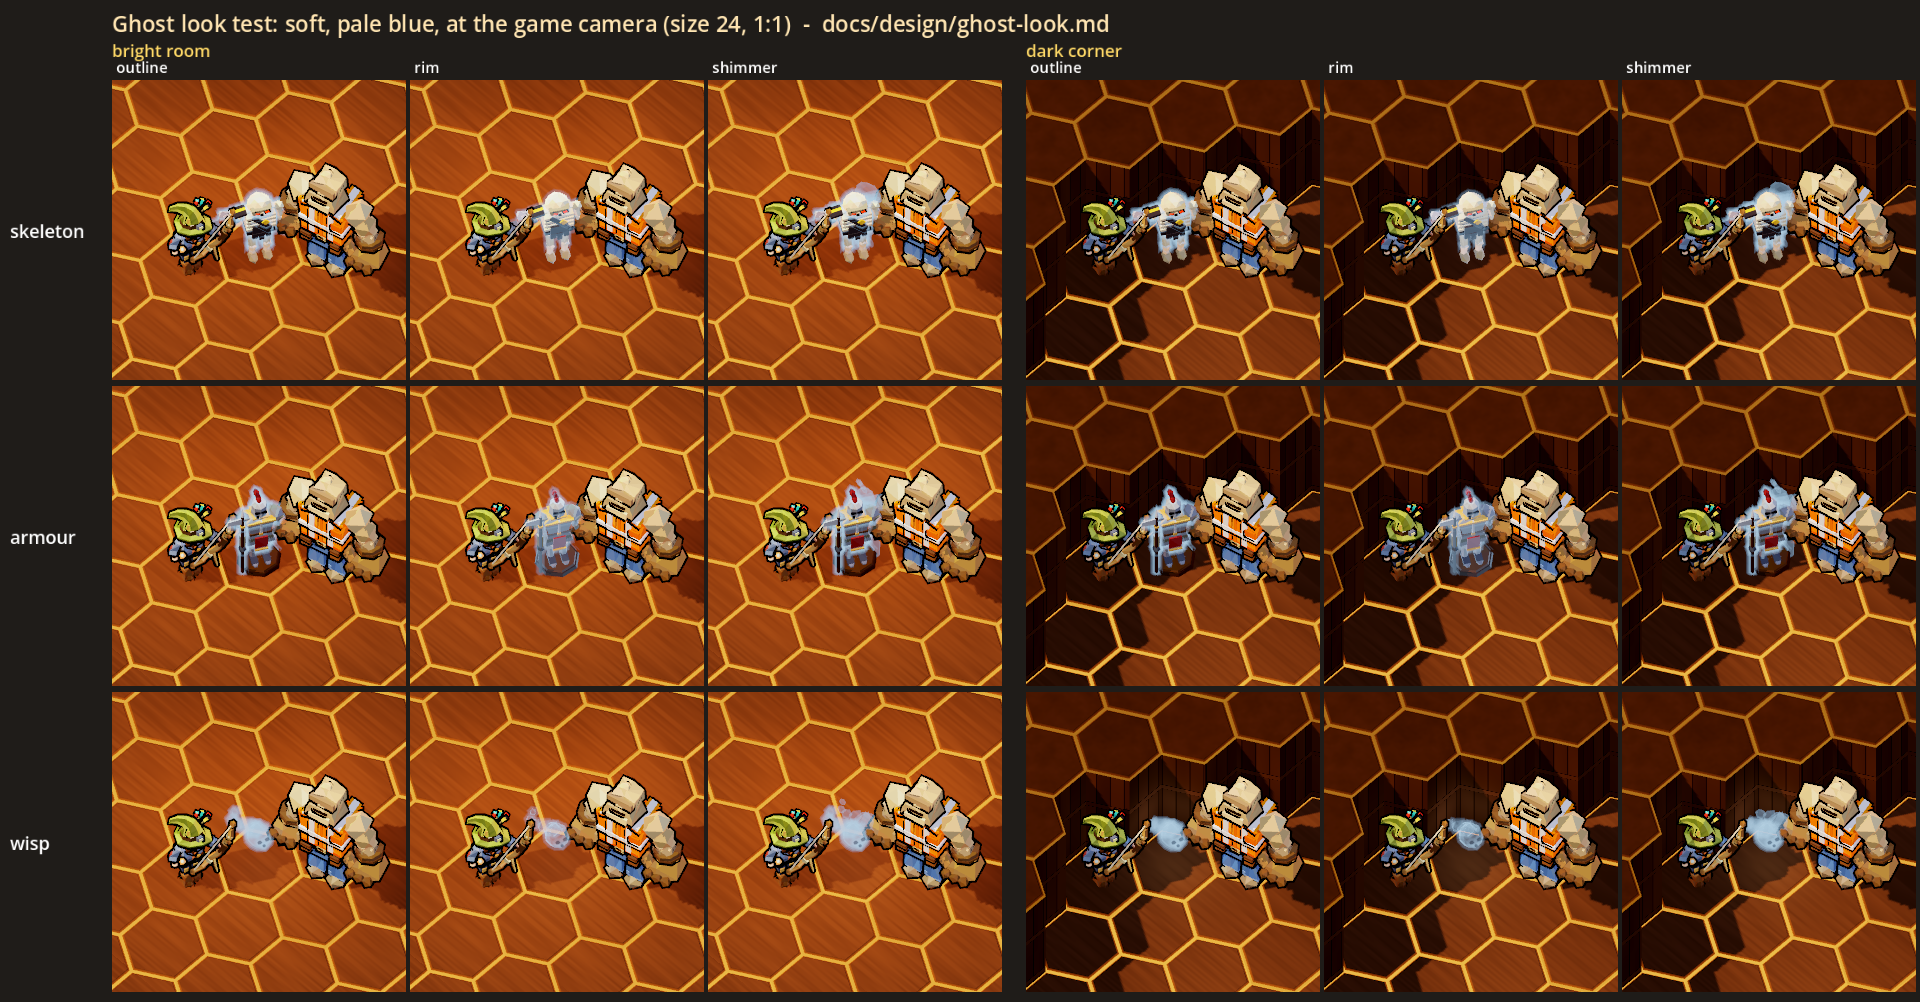
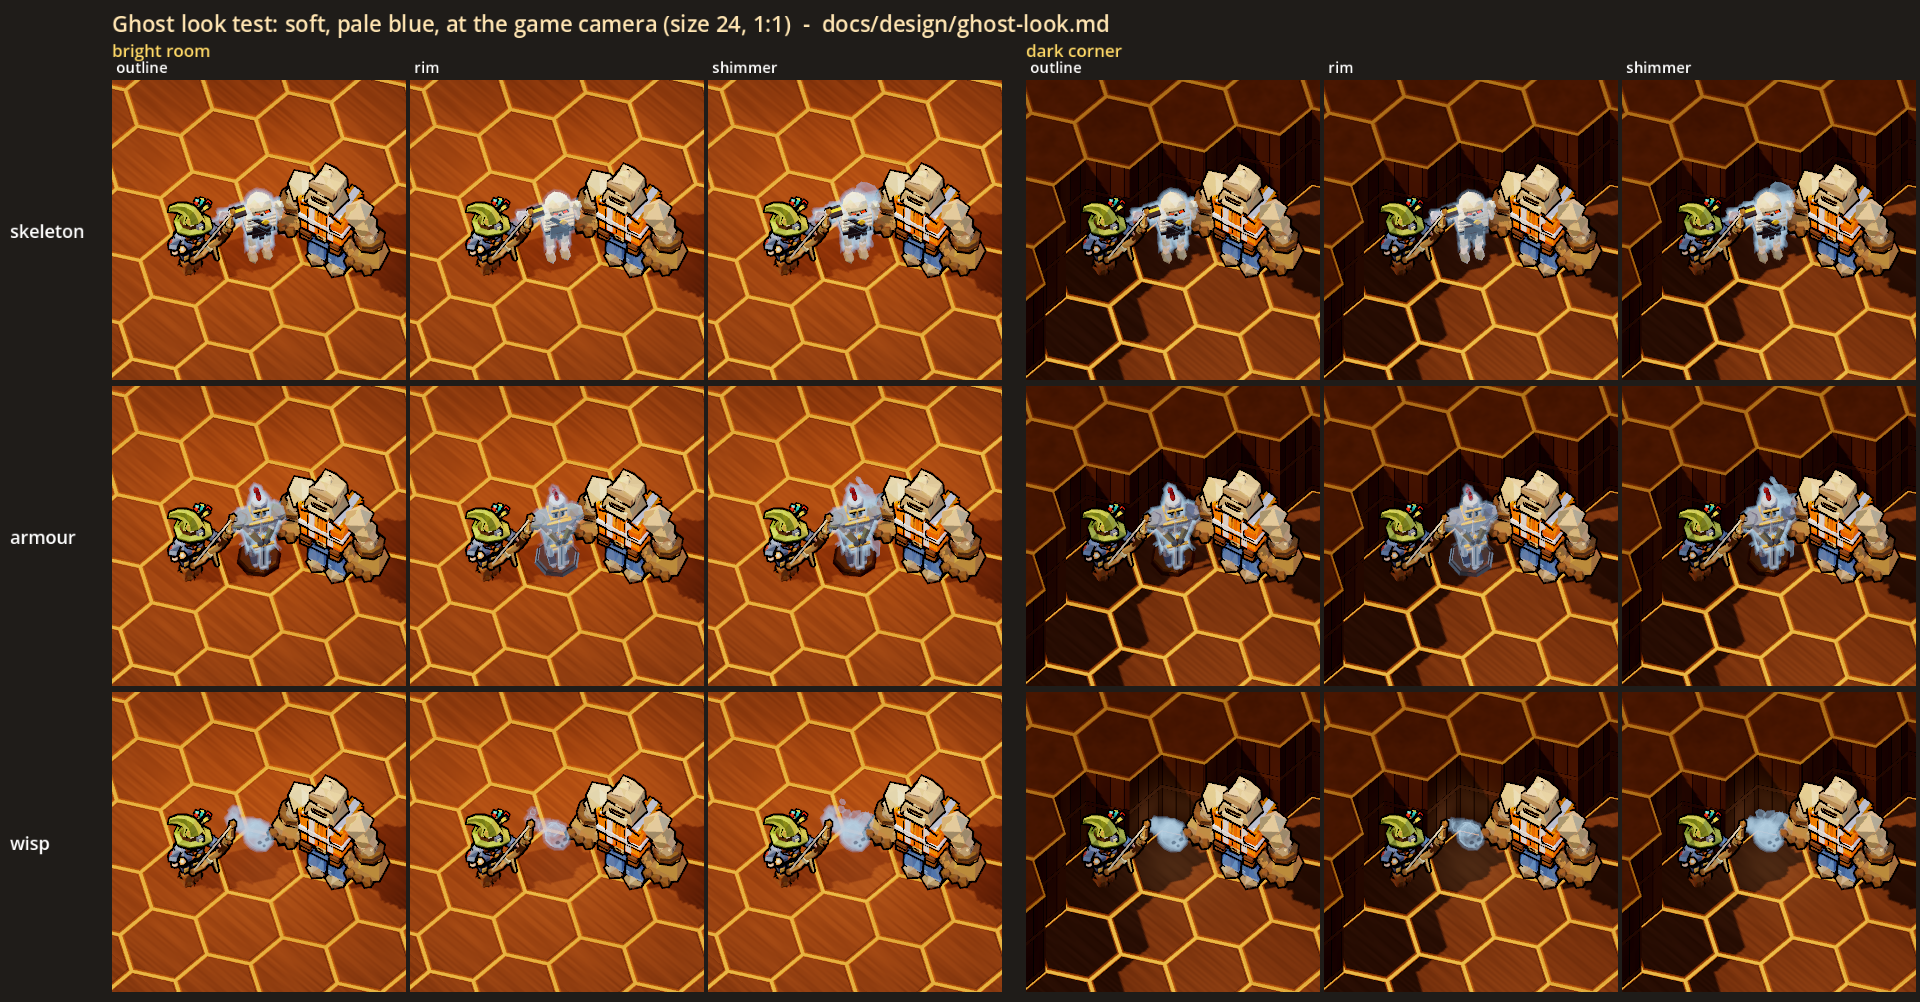
Ghost look: rim picked; the armour as a knight with a sword point-down
The user's read (2026-10-29): rim is the look, especially on the wisp; the
armour needed work. Reworked it with the two picks: a knight silhouette
(domed pauldrons, broad chest to a narrow waist, tall flat-topped great helm
with an eye slit) and a sword held point-down instead of the halberd.

diff --git a/docs/design/ghost-look.md b/docs/design/ghost-look.md
@@ -7,6 +7,16 @@ The decision this serves (new-themes.md, "Ghost house: haunted contracts", Ghost
 soft outline on whatever they possess", and **a visual test comes first** ("Lets make sure to do a visual test on this").
 The test covers the outline on a possessed host and a free ghost.
 
+## The user's read (2026-10-29)
+
+- **Rim is the look.** "The rim look is really good. Especially as a wisp."
+- **The suit of armour needs work.** "I'm not sure about the suit of armour yet. I think that needs work to make it sell."
+  Picked from four proposals: **"Knight silhouette"** (big domed pauldrons, a broad chest narrowing to the waist, a tall
+  flat-topped great helm with a clear eye slit) and **"Sword, not halberd"** (a big sword point-down in front, both
+  gauntlets on the pommel). Not picked: a glowing visor and joint gaps, darker steel. Reworked the same day:
+
+![the reworked armour, no ghost look, close up](ghost_look/armour_close.png)
+
 ## What the user is choosing
 
 Three switches, and each can be set separately:
@@ -75,7 +85,7 @@ pulse phase and the wisp's starting point on its loop) comes from `GameWorld.fx_
 |---|---|---|
 | `GhostLook` | `scripts/art/lowpoly/ghost/ghost_look.gd` | The three switches as static state (`pick`, `reset`), and the shaders. The host's body is the monsters' toon shader (`MonsterMaterial`) with a ghost rim added to it. The soft outline is three stacked translucent inverted hulls, built the same way as the ink outline (`LowPolyMaterial.OUTLINE_SHADER`); the widest is the faintest. The afterimage is a translucent copy pushed behind the body and offset in screen pixels. The wisp's body is a translucent, unshaded fresnel. `dress` hangs the chain for the current look off a body's shared material. `refresh_all` redresses every ghost in the tree. |
 | `GhostBody` | `scripts/art/lowpoly/ghost/ghost_body.gd` | One ghost: `make("skeleton" / "armour" / "wisp")`. The skeleton is a `GruntModel` with every part in the ghost body; it idles on its own clock and stands still. The armour is an `ArmourModel`. The wisp drifts in a slow figure eight round where it was put down (1.6 wide, about 19 s a lap), bobbing. Its tail trails behind its heading with a sideways wave, and it carries a small light. Every ghost is in the `ghost_look` group. |
-| `ArmourModel` | `scripts/art/lowpoly/ghost/armour_model.gd` | A suit of armour on a wooden plinth, built with LowPoly soups in the house look: tarnished steel in three values, brass trim, one faded crimson accent (the plume and the tabard), and one silhouette tell, a halberd planted on the plinth that stands taller than the suit. Its parts are named like a monster's, so a possessed suit could be posed later. |
+| `ArmourModel` | `scripts/art/lowpoly/ghost/armour_model.gd` | A suit of armour on a wooden plinth, built with LowPoly soups in the house look: tarnished steel in three values, brass trim, one faded crimson accent (the plume and the tabard), and a knight's silhouette: big domed pauldrons, a broad chest narrowing to the waist, a tall flat-topped great helm with a dark eye slit, and a big sword held point-down in front with both gauntlets on its pommel. Its parts are named like a monster's, so a possessed suit could be posed later. |
 | The gym | `GymSpawns` group `ghost`, `GymDev.experiments()` | Three spawn buttons under **Ghosts (look test)**: "ghost: skeleton", "ghost: armour" and "ghost: wisp". Three rows in **Experiments**: **Ghost look**, **Ghost strength** and **Ghost colour**, which apply live to every ghost in the gym. `--gym-act ghosts` puts one of each in a row in front of the player, for screenshots. |
 | The lab | `scripts/art/lowpoly/ghost/ghost_look_lab.gd`, `scenes/ghost_look_lab.tscn` | Renders the sheets above. |
 | Test | `tests/test_ghost_look.gd` | Checks that the three gym entries spawn cosmetic ghosts, that each switch changes the material parameters on every ghost (the rim, the shell alphas, the colours, the afterimage pass, the wisp's alpha and light), that the wisp drifts, that a real grunt still wears `MonsterMaterial` and its ink, and that the lab's builders run headless. |
@@ -107,7 +117,8 @@ every cell's crop to the folder you give it; those are not committed.
 - **The wisp has a face**: two dark eyes and a small round mouth. Without them it read as a puff of smoke.
 - **The wisp lights the floor** at soft and strong, with no light at faint. The light makes it much easier to find in the
   dark.
-- **The armour**: a great helm with a crimson plume, a faded crimson tabard and a halberd. A different silhouette tell
+- **The armour**: a great helm with a crimson plume, a faded crimson tabard and a sword held point-down (it was a halberd
+  until the user's read above). A different silhouette tell
   would change how it reads from across a room.
 - **The pulse** runs about one cycle every 5 s, ±30 % alpha and a little width.
 - **The dark corner** uses the game's own lighting: a wall shadow outside the downlight pool, not a specially darkened
